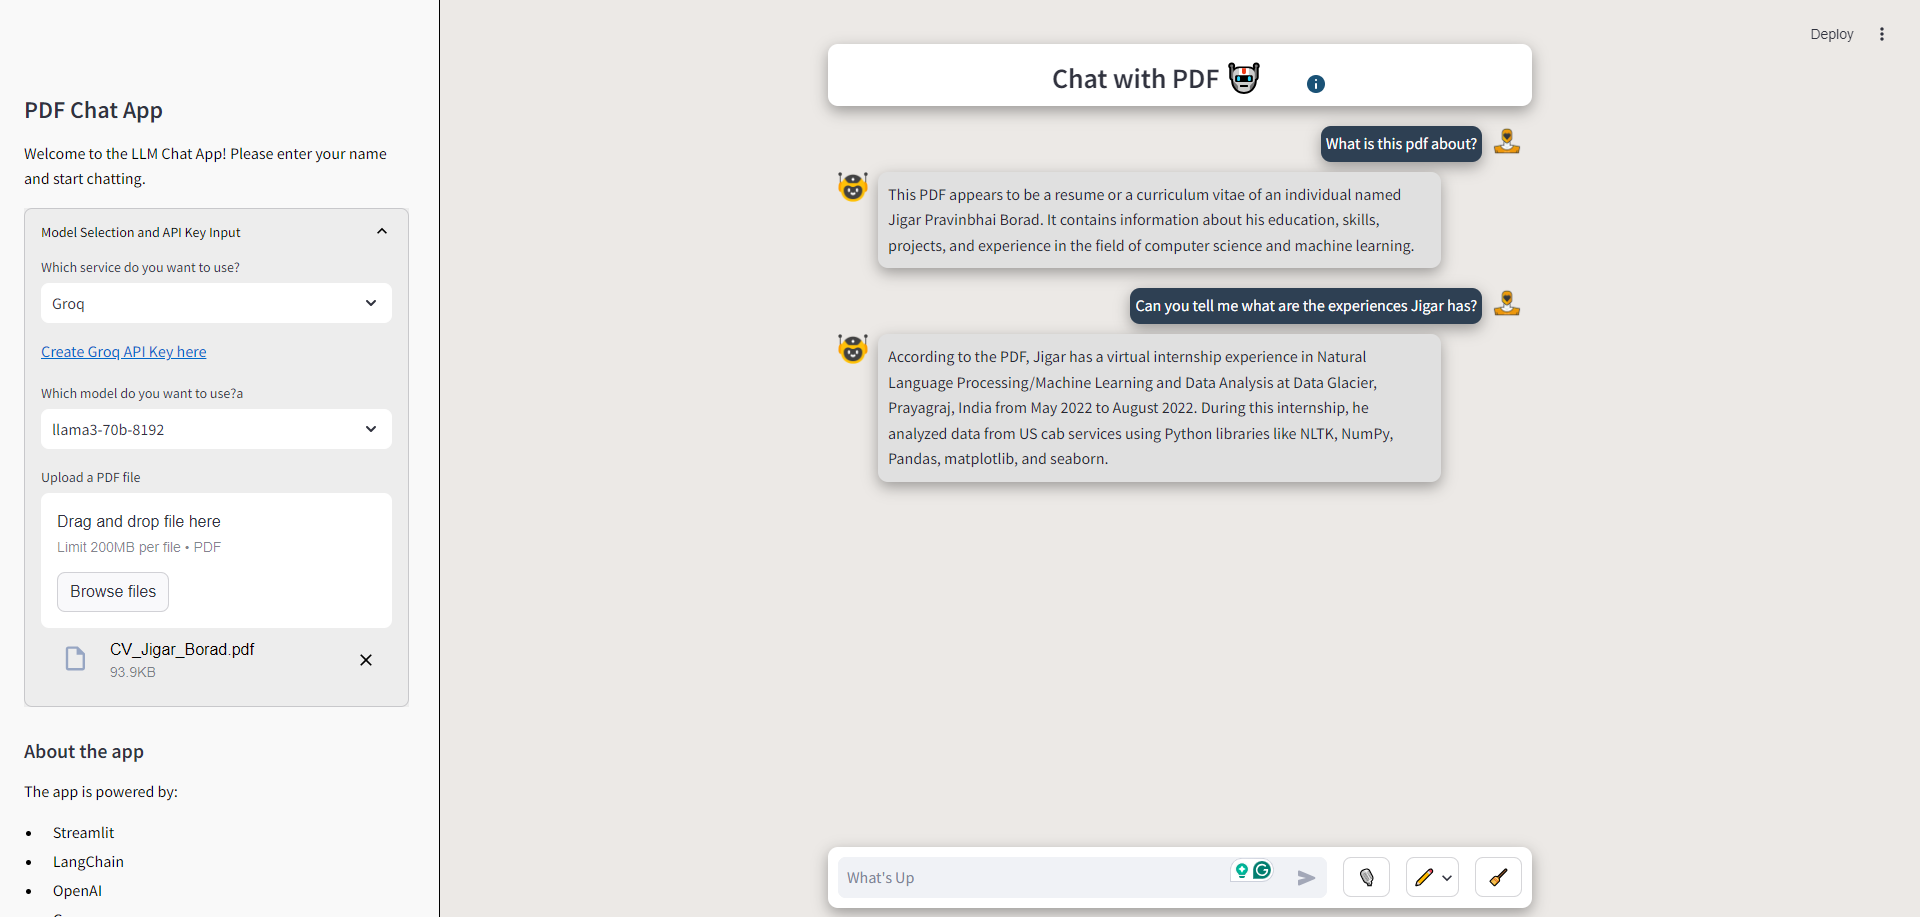
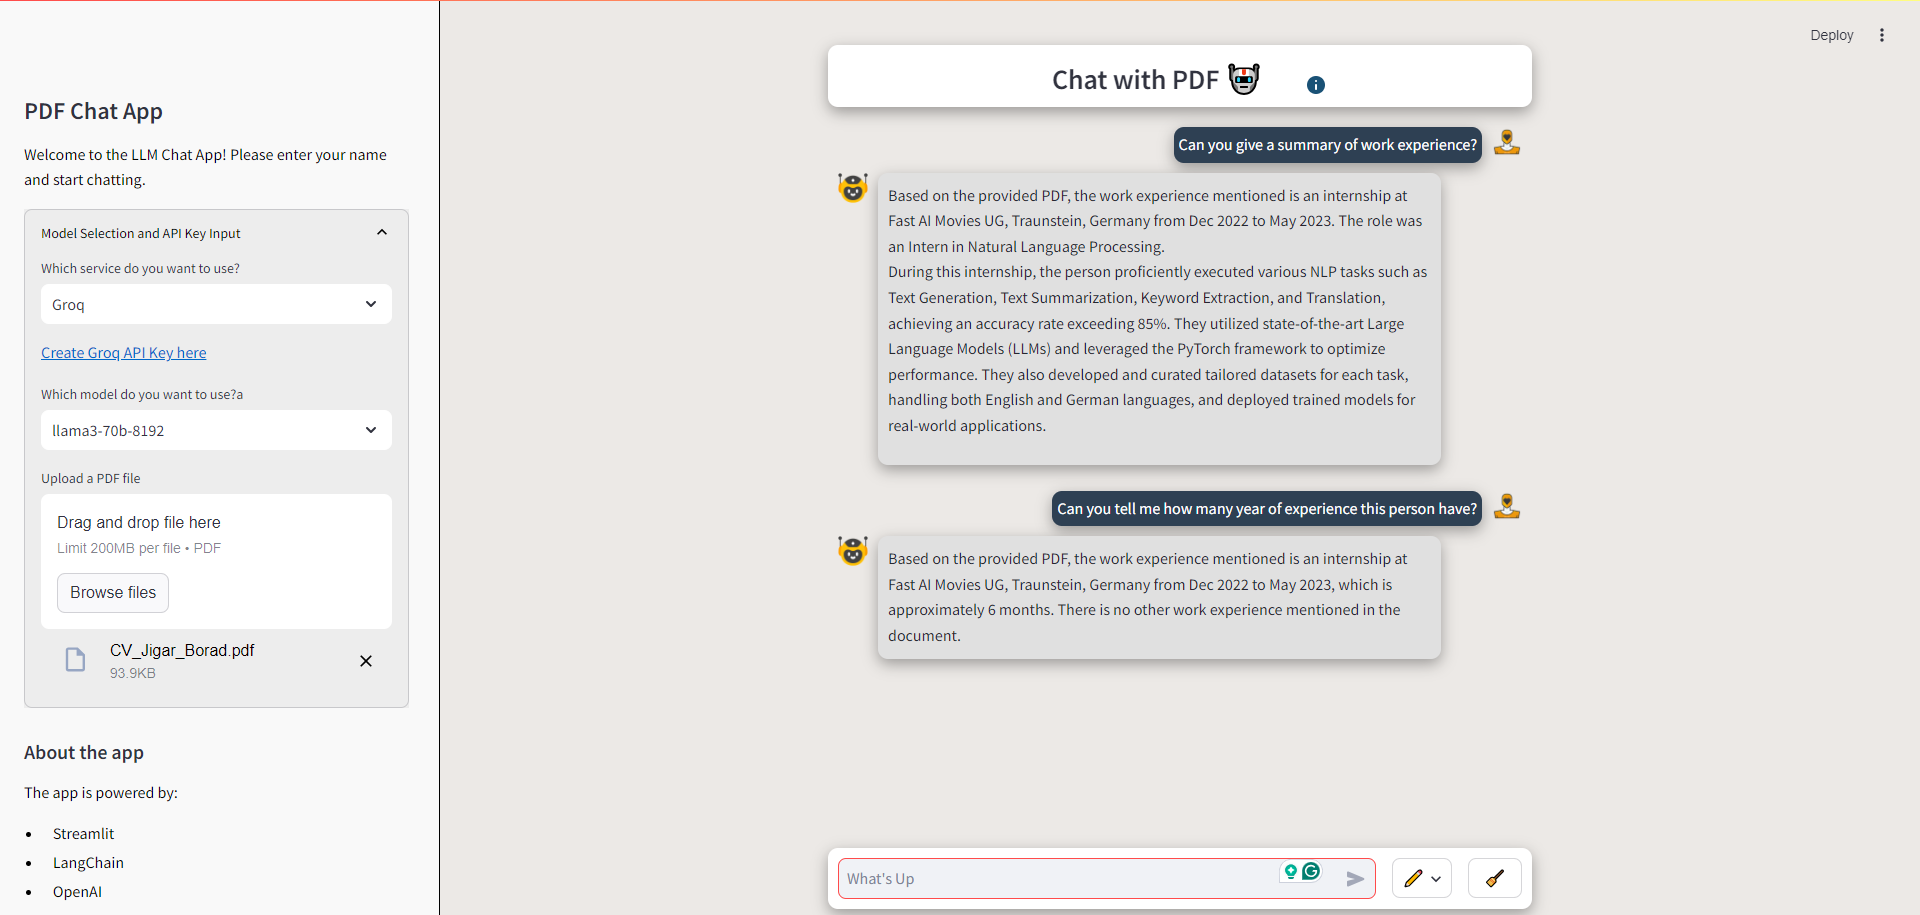
Change the UI of entire app
Move pdf upload option to sidebar to give more space to show chat
history
Add Clear History button to input bar

diff --git a/chat.py b/chat.py
@@ -1,9 +1,7 @@
 import streamlit as st
-import speech_recognition as sr
 from open_ai_models import OpenAIModel
 from groq_models import GroqModel
 from utils import icon_loader
-import chime
 
 class ChatApp:
     def __init__(self, api_key, model_name, vector_store_path, chunks, uploaded_file):
@@ -28,42 +26,6 @@ class ChatApp:
             return False
         return True
 
-    def record_audio(self, recognizer, microphone):
-        if not isinstance(recognizer, sr.Recognizer):
-            raise TypeError("`recognizer` must be `Recognizer` instance")
-        if not isinstance(microphone, sr.Microphone):
-            raise TypeError("`microphone` must be `Microphone` instance")
-
-        # Adjust the recognizer sensitivity to ambient noise and record audio
-        with microphone as source:
-            recognizer.adjust_for_ambient_noise(source)
-            chime.theme("material")
-            st.toast('Listening ...')
-            chime.info()
-            audio = recognizer.listen(source, timeout=10, phrase_time_limit=10)
-            chime.info()
-            st.toast('Listening Completed...')
-        return audio
-    def transcribe_speech(self, audio):
-        response = {
-            "success": True,
-            "error": None,
-            "transcription": None
-        }
-        
-        try:
-            # Send audio data to Groq for transcription
-            self.model = GroqModel(self.api_key)
-            transcription = self.model.transcription_model(audio)
-
-            response["transcription"] = transcription.text
-        except sr.RequestError:
-            response["success"] = False
-            response["error"] = "API unavailable"
-        except sr.UnknownValueError:
-            response["error"] = "Unable to recognize speech"
-        return response
-
     def run(self):
             if "messages" not in st.session_state:
                 st.session_state.messages = []
@@ -77,38 +39,15 @@ class ChatApp:
                     "If a question is outside the scope of these documents, respond with 'This question is not related to the document."
                     "Please ask questions related to the PDF."
                 )
-
-                # Initialize microphone state if not already present
-                if "mic_active" not in st.session_state:
-                    st.session_state.mic_active = False
                 
                 chat_input_container = st.container()
                 
-                
                 with chat_input_container:
-                    cols1 = st.columns([0.85, 0.1, 0.11, 0.1])
-                    user_query = None
-                    audio = None
-                    if user_query2 := cols1[0].chat_input(placeholder="What's Up"):
-                        user_query = user_query2
+                    cols1 = st.columns([0.85, 0.11, 0.1])
+                    user_query = cols1[0].chat_input(placeholder="What's Up")
+                        
+        
                     with cols1[1]:
-                        if self.model_name in OpenAIModel(self.api_key).get_available_models():
-                            disabled = True
-                        else:
-                            disabled = False
-                        if st.button(":studio_microphone:", help="Mic (only available for Groq models)", disabled=disabled, use_container_width=True):
-                            st.session_state.mic_active = not st.session_state.mic_active
-                        if st.session_state.mic_active:
-                            recognizer = sr.Recognizer()
-                            microphone = sr.Microphone()
-                            audio = self.record_audio(recognizer, microphone)
-                            st.session_state.mic_active = False
-                        if audio:
-                            speech_response = self.transcribe_speech(audio)
-                            if speech_response["success"]:
-                                user_query = speech_response["transcription"]
-                                
-                    with cols1[2]:
                         with st.popover(label= ":pencil2:",help="Custom Instructions (Prompts)",use_container_width=True):
                             # User input for custom prompt template
                             custom_template = st.text_area("Enter your custom instructions", placeholder="default_instructions are\n\n" + default_instructions, height=100)
@@ -117,14 +56,12 @@ class ChatApp:
                         if "custom_template" in st.session_state and st.session_state.custom_template != custom_template:
                             st.session_state.custom_template = custom_template
                             st.session_state.messages = []  # Clear chat history
-                            chime.warning()
                         # If no custom template stored yet, store the current one
                         if "custom_template" not in st.session_state:
                             st.session_state.custom_template = custom_template or default_instructions
-                    with cols1[3]:
+                    with cols1[2]:
                         if st.button(":broom:", help="Clear chat history",use_container_width=True):
                             st.session_state.messages = []
-                            chime.warning()
                     # Float button container
                 chat_input_container.float('bottom: 1%; background-color:white; display: flex; justify-content: center; margin: 0 auto; padding: 10px; border-radius: 10px; border: 1; box-shadow: rgba(0, 0, 0, 0.35) 0px 5px 15px;')
                 # Display chat messages from history on app rerun
@@ -173,7 +110,6 @@ class ChatApp:
                         f'</div>',
                         unsafe_allow_html=True
                     ) 
-                    chime.warning()
                         # JavaScript to scroll to the bottom of the chat container
                 
                 

diff --git a/utils.py b/utils.py
@@ -1,7 +1,6 @@
 import streamlit as st
 import base64
 from pathlib import Path
-import chime
 def get_openai_key():
     if 'openai_api_key' not in st.session_state:
         st.session_state.openai_api_key = ''
@@ -21,12 +20,10 @@ def get_openai_key():
         if api_key_input.startswith("sk-"):
             st.session_state.openai_api_key = api_key_input
             st.session_state.api_key_invalid = False
-            chime.success() 
         else:
             st.session_state.api_key_invalid = True
             st.error("Invalid API key. Please enter a valid OpenAI API key starting with 'sk-'.")
             st.session_state.openai_api_key = ''
-            chime.error()
     st.markdown("[Create OpenAI API Key here](https://platform.openai.com/settings/profile?tab=api-keys)")
     return st.session_state.openai_api_key
 
@@ -49,12 +46,10 @@ def get_groq_key():
         if api_key_input.startswith("gsk_"):  # Add your Groq API key validation logic here
             st.session_state.groq_api_key = api_key_input
             st.session_state.api_key_invalid = False
-            chime.success() 
         else:
             st.session_state.api_key_invalid = True
             st.error("Invalid API key. Please enter a valid Groq API key.")
             st.session_state.groq_api_key = ''
-            chime.error()
     st.markdown("[Create Groq API Key here](https://console.groq.com/keys)")
     return st.session_state.groq_api_key
 

diff --git a/groq_models.py b/groq_models.py
@@ -34,21 +34,3 @@ class GroqModel:
         
         response = chain.invoke(input={"input_documents": docs, "question": input_text})["output_text"]
         return response
-
-    def transcription_model(self, audio):
-        client = Groq(api_key=self.api_key)
-        with open("microphone-results.wav", "wb") as f:
-            f.write(audio.get_wav_data())
-
-        # Use Groq API for transcription
-        with open("microphone-results.wav", "rb") as audio_file:
-            transcription = client.audio.transcriptions.create(
-            file=("microphone-results.wav", audio_file),
-            model="whisper-large-v3",
-            prompt="Specify context or spelling",  # Optional
-            response_format="json",  # Optional
-            language="en",  # Optional
-            temperature=0.0  # Optional
-        )
-        os.remove("microphone-results.wav")
-        return transcription

diff --git a/data_manager.py b/data_manager.py
@@ -1,7 +1,6 @@
 import streamlit as st
 from langchain.text_splitter import RecursiveCharacterTextSplitter
 from PyPDF2 import PdfReader
-import chime
 
 class DataManager:
     @staticmethod
@@ -14,7 +13,6 @@ class DataManager:
         
         # Check if a new file has been uploaded
         if uploaded_file and uploaded_file != st.session_state.uploaded_file:
-            chime.success()  # Chime when file is uploaded successfully
             st.session_state.uploaded_file = uploaded_file  # Update session_state
         
         if uploaded_file is not None:

diff --git a/css/sidebar.py b/css/sidebar.py
@@ -4,7 +4,6 @@ import utils
 from open_ai_models import OpenAIModel
 from groq_models import GroqModel
 from data_manager import DataManager
-import chime
 def render_sidebar():
     with st.sidebar:
         st.title("PDF Chat App")

diff --git a/ReadMe.md b/ReadMe.md
@@ -9,7 +9,7 @@ Welcome to the LLM Chat App, a powerful and interactive web application that all
 ## Features ✨
 
 - **Upload PDFs:** Easily upload your PDF documents for processing.
-- **Interactive Chat:** Ask questions related to the content of the uploaded PDF with text input and microphone and get responses from an LLM.
+- **Interactive Chat:** Ask questions related to the content of the uploaded PDF and get responses from an LLM.
 - **Text Extraction and Chunking:** Extract text from PDFs and split it into manageable chunks for efficient processing.
 - **Vector Store:** Utilize FAISS to create and manage vector stores for fast similarity searches.
 - **Custom CSS:** Enjoy a modern and visually appealing interface with a custom-designed CSS.
@@ -27,8 +27,6 @@ Welcome to the LLM Chat App, a powerful and interactive web application that all
 - **FAISS:** Efficient vector search for handling large text data.
 - **HuggingFace:** Providing embeddings for Groq models.
 - **OpenAI Embeddings:** Used for OpenAI models.
-- **SpeechRecognition:** Used to take input from microphone
-- **Chime:** For notification sound
 
 ## Available Models
 
@@ -68,9 +66,6 @@ Welcome to the LLM Chat App, a powerful and interactive web application that all
 7. **Change the models:**
     - Click on the models available on the sidebar to change the models
     - Enter Apis if asked.
-
-8. **Use microphone as input:**
-    - Click on mic button to give input from mic instead of writing it (Only available for Groq models)
 
 ## Screenshots
 **Workflow of RAG**
